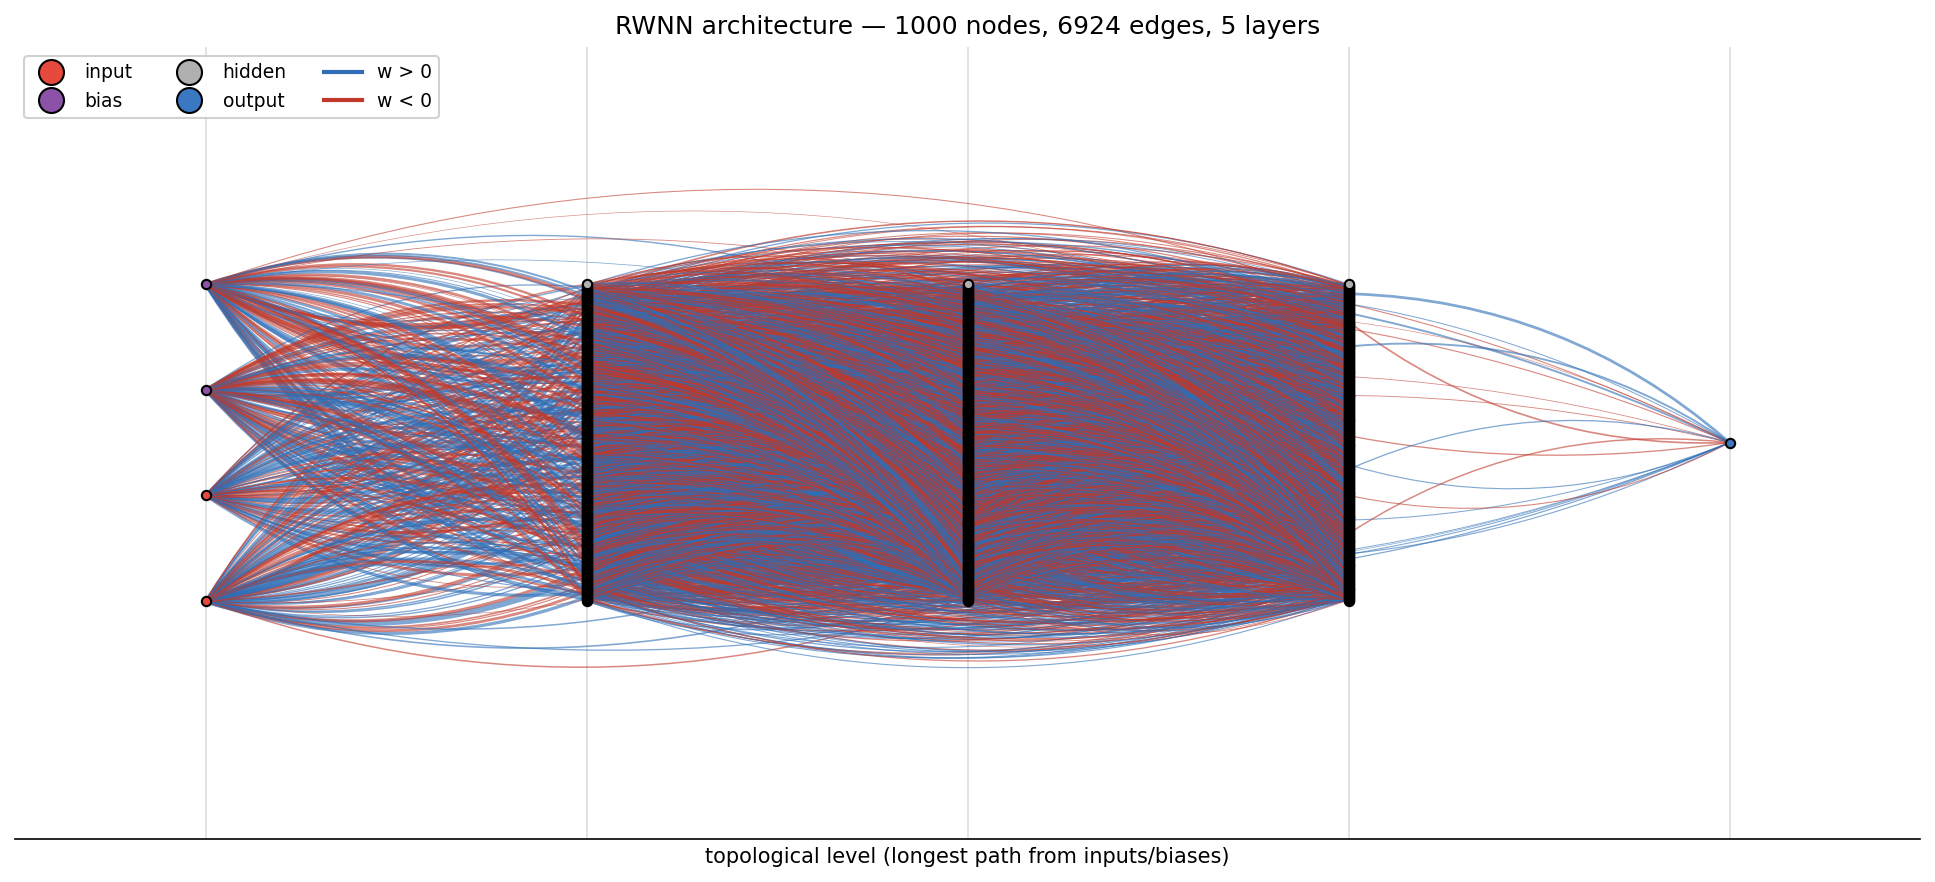
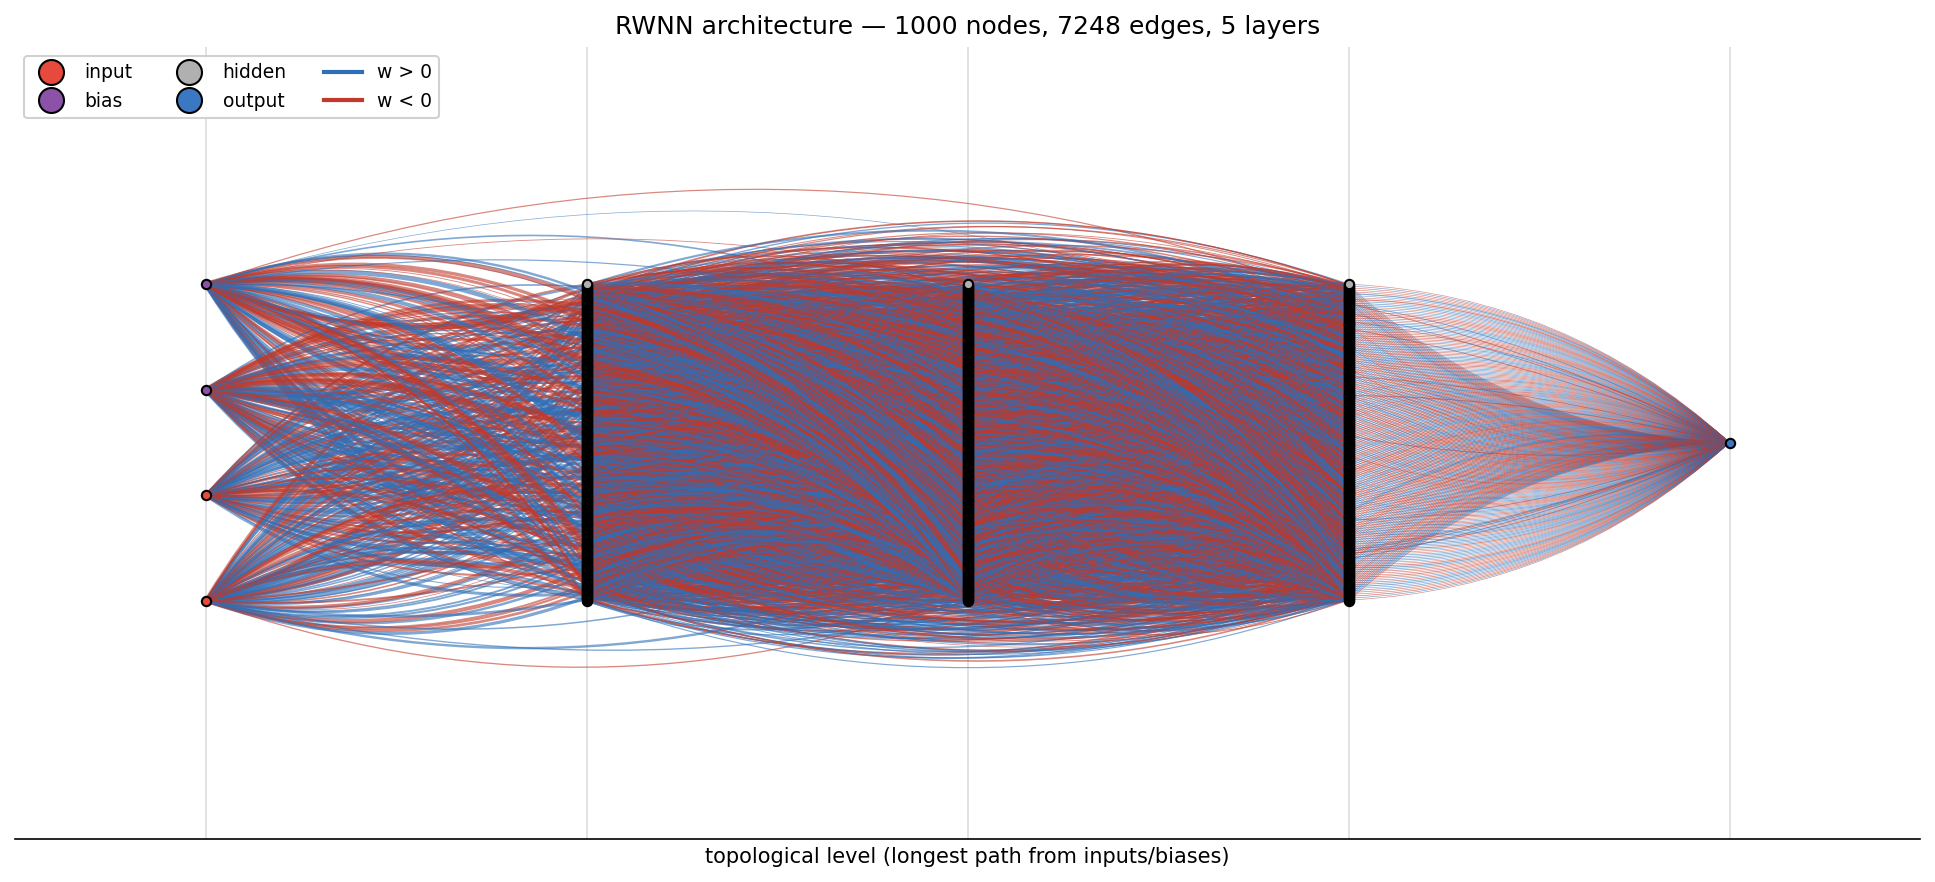
Eliminate vestigial nodes: enforce reachable-to-outputs in build_layered_rwnn
A second constraint is now applied in build_layered_rwnn: every
non-output node must have at least one outgoing edge to some layer
> L. Combined with the existing "at least one parent at L-1" rule,
this guarantees every node participates in at least one input-to-output
path. Outgoing edges can target any later layer (not just L+1), so the
n_layers depth is preserved.

Empirical impact on the 1000-node / 5-layer Part 1 run:
  before: 699/1000 nodes had no path to output (vestigial) -> 0
          effective edges ~713 out of 6924
  after : 0 vestigial, 7248 edges all live
  test MSE 3.9e-5 -> 1.2e-5 (~3x better, same compute budget)

Why "vestigial": nodes unreachable from outputs receive zero gradient
by the chain rule every step, so their weights never update and they
contribute nothing to either training or prediction. Removing them by
construction means the advertised n_nodes matches effective capacity.

Tests all still pass at float32 roundoff.

diff --git a/Part1/src/rwnn/graph.py b/Part1/src/rwnn/graph.py
@@ -243,11 +243,21 @@ def build_layered_rwnn(
     Wiring rules
     ------------
     A node at layer ``L`` draws every node at layers ``< L`` as a
-    candidate parent, keeping each with probability ``edge_prob``. To
-    guarantee the node actually lands at level ``L`` under the longest-
-    path label (``level(i) = 1 + max(level(parents))``), we force at
-    least one parent at layer ``L - 1``. The result is a random DAG
-    whose topological depth is exactly ``n_layers``.
+    candidate parent, keeping each with probability ``edge_prob``.
+
+    Two constraints are then enforced to keep the graph non-degenerate:
+
+    * **Reachable from inputs.** At least one parent at layer ``L - 1``
+      so the longest-path label ``level(i) = 1 + max(level(parents))``
+      places this node at exactly level ``L``.
+    * **Reachable to outputs.** Every non-output node has at least one
+      outgoing edge to some layer ``> L``. Combined with the previous
+      rule, this eliminates "vestigial" nodes — those with no path to
+      any output and therefore zero gradient forever.
+
+    The result is a random DAG whose topological depth is exactly
+    ``n_layers`` and in which every node participates in at least one
+    input-to-output path.
     """
     if n_layers < 2:
         raise ValueError("n_layers must be >= 2 (one layer for inputs/biases, one for outputs)")
@@ -313,5 +323,28 @@ def build_layered_rwnn(
             # happen because layer 0 always has inputs + biases.
             chosen.add(int(rng.integers(0, i)))
         parents[i] = sorted(chosen)
+
+    # Reachable-to-outputs pass. For every non-output node with no
+    # outgoing edge, add one to a uniformly random node at some later
+    # layer. Because output nodes sit at the max layer and already have
+    # at least one parent at L_max - 1, this pass terminates every
+    # forward chain at an output node — no vestigial nodes.
+    children_count = np.zeros(N, dtype=np.int64)
+    for p_list in parents:
+        for p in p_list:
+            children_count[p] += 1
+
+    for i in range(hidden_end):  # inputs + biases + hidden (not outputs)
+        if children_count[i] > 0:
+            continue
+        Li = int(layer[i])
+        later = np.concatenate(
+            [nodes_at_layer[ℓ] for ℓ in range(Li + 1, n_layers)]
+        ) if Li + 1 < n_layers else np.empty(0, dtype=np.int64)
+        if later.size == 0:
+            continue
+        j = int(rng.choice(later))
+        parents[j] = sorted(set(parents[j]) | {i})
+        children_count[i] += 1
 
     return _assemble_dag(n_in, n_bias, n_hidden, n_out, parents)
